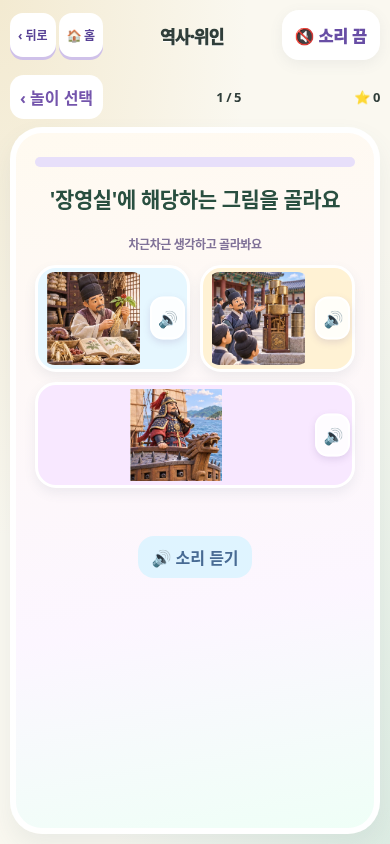
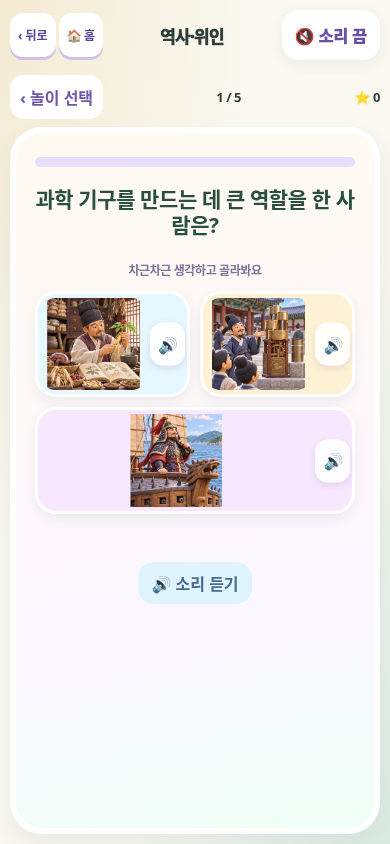
docs: record verified matching and update release

Changed region(s): [[0.0923, 0.2156, 0.9231, 0.7393]]

diff --git a/docs/v13/matching-update/README.md b/docs/v13/matching-update/README.md
@@ -1,0 +1,7 @@
+# Meaningful matching and explicit app updates
+
+All matching modes now hide the source answer scene and ask the actual curriculum question. Illustrated options retain original answer values; six offline matching flows and completion pass. Historical figure choices use their proper existing contextual portraits. Phone/tablet screenshots were captured and inspected.
+
+Home compares the loaded page release, active service worker and freshly fetched server version. It shows checking, available, current, applying, completed and connection/error messages, and handles a worker that activated before the user pressed Apply. Progress is preserved. Browser tests verify installed-worker current state and controlled future-version/offline states at phone/tablet sizes; full upgrade on a physical phone is not claimed. Seventy-two browser cases and smoke pass.
+
+The initial future-version route interception test failed because the service worker handled that request. The test was corrected to control the remote-version fetch response and passed; the failed test was not counted as successful. Actual deployment SHA and workflows are recorded separately.

diff --git a/V13-STATUS.md b/V13-STATUS.md
@@ -207,3 +207,6 @@ Continuing branch `v13/02-offline-query-navigation`; previous graphical checkpoi
 
 - Follow-up: compare the loaded page release as well as the active worker, so a background worker update cannot make an old open page claim to be current. Update-available/offline test originally used a route intercepted by the worker; corrected to a controlled remote-version fetch response and rerun successfully at both viewports.
 - Matching prompts now ask the actual curriculum question (for example, identifying a traditional game from its description), rather than displaying the answer name. Six actual offline contextual matching flows and five-question completion pass with the original correct-choice values.
+
+### v13.9 production verification
+- Main SHA `78af434f52c4e060044f87b79d27c34476ed4455`; Pages #379 (43829449052) and QA #346 (43829449565) both SUCCESS. Pages title matches release SHA and published output URL present. Local final matching/update-state checks and 72 browser cases passed. Evidence: docs/v13/matching-update.
